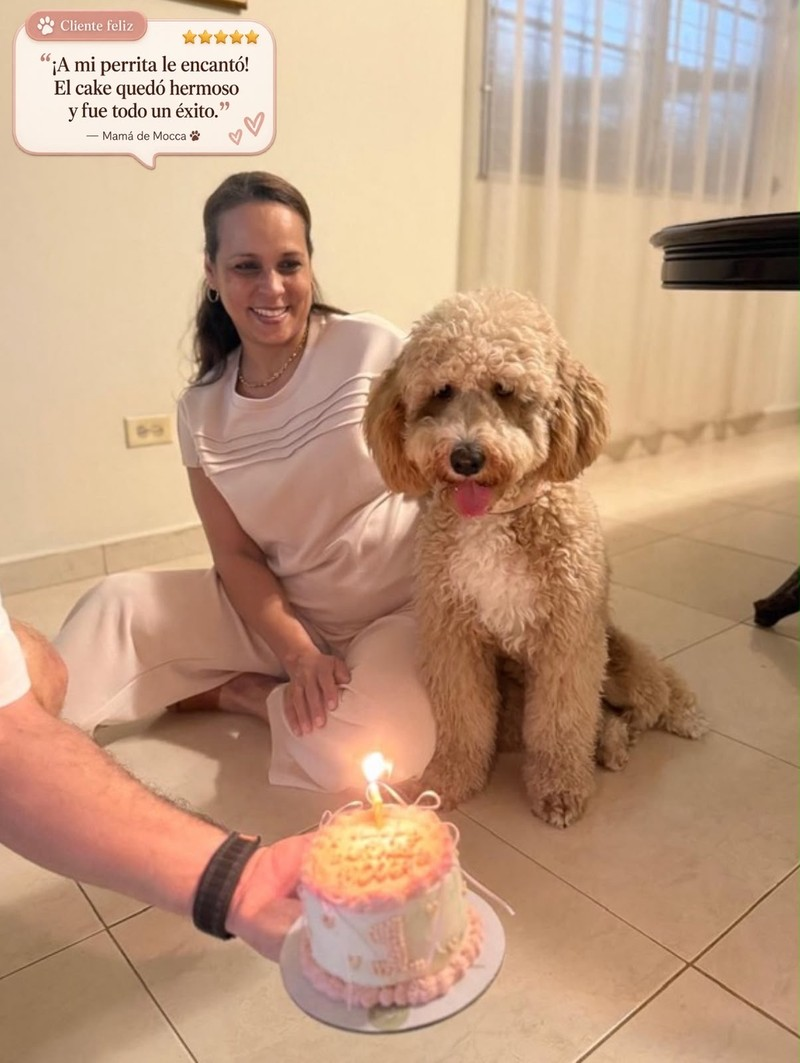
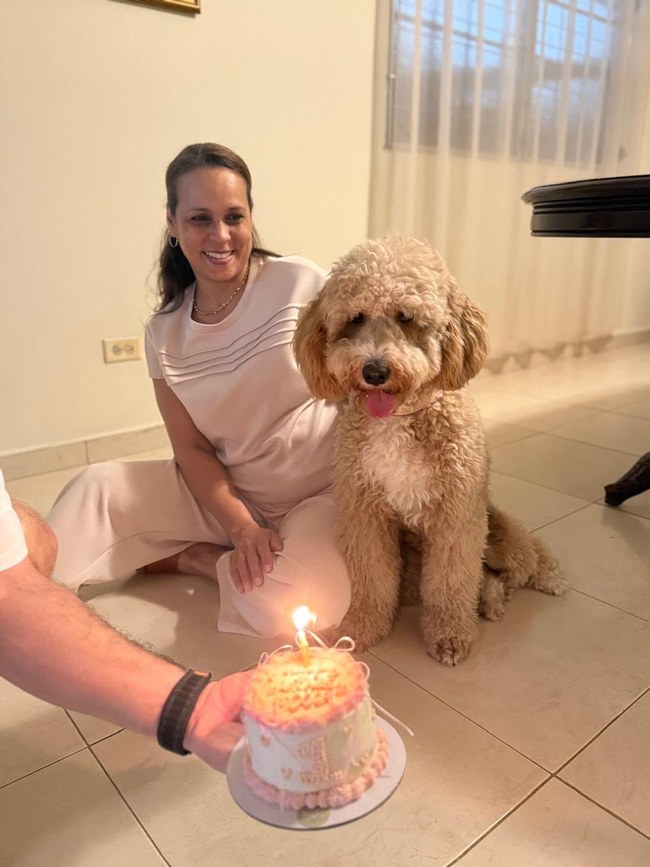
New hero photo with trust badge, add 4 new products
- Hero: swap in the new client photo, shrink its display size, and
  add a "Cliente feliz" star-rating badge (CSS overlay, no baked-in
  quote this time since it's a different customer)
- New product: Bola de Tenis cake ($35), fixed meat-based recipe
  and fixed colors, no flavor/color pickers
- New product: Mini Frosted Donuts (combos of 3/7/12), flavor,
  up to 3 colors, and a notes field to request a custom design
- New product: Docena de Frosted Cookies personalizadas (desde $25),
  quote-style with just a notes field, no photo
- New product: Frosted Cookies de Temporada ($12, set de 5) with a
  2-photo slide for this month's design

Claude-Session: https://claude.ai/code/session_01XqmfRNJsafXUHQMjhSssjc

diff --git a/src/data/catalog.ts b/src/data/catalog.ts
@@ -26,6 +26,10 @@ import imgCookieCakeHalloween from "../assets/products/cookie-cake-halloween.jpg
 import imgCollarLifestyle from "../assets/products/collar-lifestyle.jpg";
 import imgCollarNavy from "../assets/products/collar-navy.jpg";
 import imgCollarLila from "../assets/products/collar-lila.jpg";
+import imgBolaTenis from "../assets/products/bola-tenis.jpg";
+import imgMiniDonuts from "../assets/products/mini-donuts.jpg";
+import imgCookiesTemporada1 from "../assets/products/cookies-temporada-1.jpg";
+import imgCookiesTemporada2 from "../assets/products/cookies-temporada-2.jpg";
 
 export type Category = "planes" | "cakes" | "pupcakes" | "decor" | "treats" | "promo" | "gatos" | "accesorios";
 
@@ -370,6 +374,58 @@ export const CATALOG: Product[] = [
       "Diseñado para minimizar irritaciones en la piel",
     ],
     choice: { label: "Color y talla", options: ["Lila (M)", "Azul (S)"] },
+  },
+  {
+    id: "bola-tenis",
+    category: "cakes",
+    name: "Bola de Tenis 🎾",
+    tagline: "5 pulgadas",
+    price: 35,
+    images: [imgBolaTenis],
+    bullets: [
+      "Cake especial en forma de bola de tenis",
+      "Ingredientes de la mezcla: carne, arroz y zanahoria hervida",
+      "Únicamente disponible en los colores mostrados en la foto",
+    ],
+  },
+  {
+    id: "mini-donuts",
+    category: "pupcakes",
+    name: "Mini Frosted Donuts",
+    tagline: "Decorados para tu peludito",
+    images: [imgMiniDonuts],
+    variants: [
+      { id: "x3", label: "Combo de 3", price: 5 },
+      { id: "x7", label: "Combo de 7", price: 10 },
+      { id: "x12", label: "Combo de 12", price: 15 },
+    ],
+    hasFlavor: true,
+    hasColor: true,
+    maxColors: 3,
+    hasNote: true,
+    note: "¿Tienes un diseño en mente? Cotízalo en la caja de notas.",
+  },
+  {
+    id: "frosted-cookies-personalizadas",
+    category: "treats",
+    name: "Docena de Frosted Cookies personalizadas",
+    price: 25,
+    priceNote: "desde",
+    bullets: ["Cotiza tu tema o diseño en la caja de notas"],
+    hasNote: true,
+  },
+  {
+    id: "frosted-cookies-temporada",
+    category: "treats",
+    name: "Frosted Cookies de Temporada",
+    tagline: "Set de 5",
+    price: 12,
+    images: [imgCookiesTemporada1, imgCookiesTemporada2],
+    bullets: [
+      "Set especial de 5 Frosted Cookies con diseños inspirados en la temporada y celebraciones del mes",
+      "Incluye 5 galletas decoradas con diseños seleccionados por Barki",
+      "Los diseños cambian cada mes y están disponibles por tiempo limitado",
+    ],
   },
 ];
 

diff --git a/src/components/Hero.tsx b/src/components/Hero.tsx
@@ -1,4 +1,4 @@
-import { Instagram, MessageCircle, PawPrint } from "lucide-react";
+import { Instagram, MessageCircle, PawPrint, Star } from "lucide-react";
 import dogCake from "../assets/hero-dog-cake.jpg";
 import { INSTAGRAM_URL, WHATSAPP_NUMBER } from "../data/config";
 
@@ -44,11 +44,22 @@ export default function Hero() {
         </div>
 
         <div className="relative mx-auto grid w-full max-w-md grid-cols-2 gap-4">
-          <img
-            src={dogCake}
-            alt="Cliente feliz con su cake Barki"
-            className="col-span-2 w-full rounded-[2rem] object-contain shadow-soft"
-          />
+          <div className="relative col-span-2 mx-auto w-4/5">
+            <img
+              src={dogCake}
+              alt="Cliente feliz con su cake Barki"
+              className="w-full rounded-[2rem] object-contain shadow-soft"
+            />
+            <span className="absolute left-2 top-2 flex items-center gap-1.5 rounded-full bg-white/95 px-3 py-1.5 text-xs font-bold text-olive-700 shadow-soft">
+              <PawPrint size={13} className="text-blush-400" />
+              Cliente feliz
+              <span className="flex items-center text-blush-400">
+                {Array.from({ length: 5 }).map((_, i) => (
+                  <Star key={i} size={10} fill="currentColor" strokeWidth={0} />
+                ))}
+              </span>
+            </span>
+          </div>
           <div className="col-span-2 flex flex-col justify-center rounded-[2rem] bg-olive-500 p-5 text-white shadow-soft">
             <span className="font-display text-3xl font-extrabold">100%</span>
             <span className="text-sm font-semibold text-olive-100">Natural · Libre de gluten, soya y azúcar</span>
